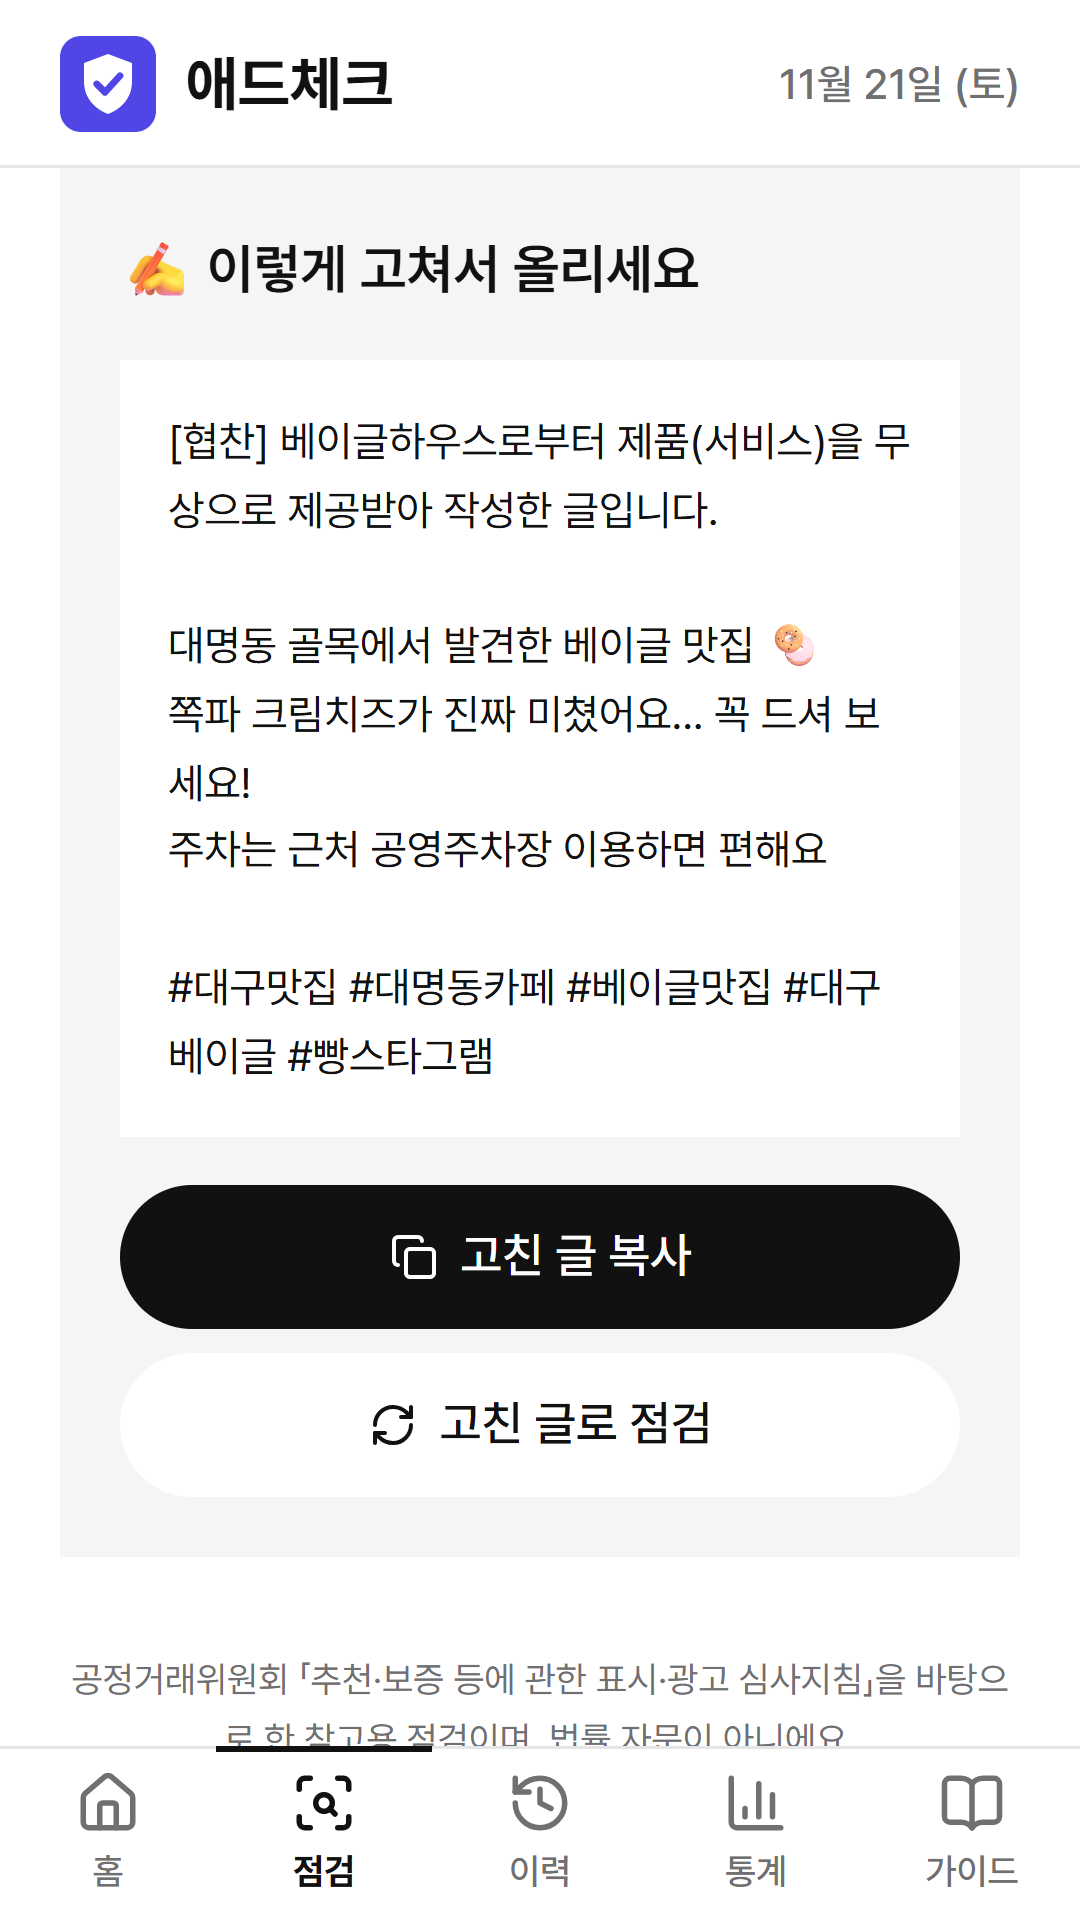
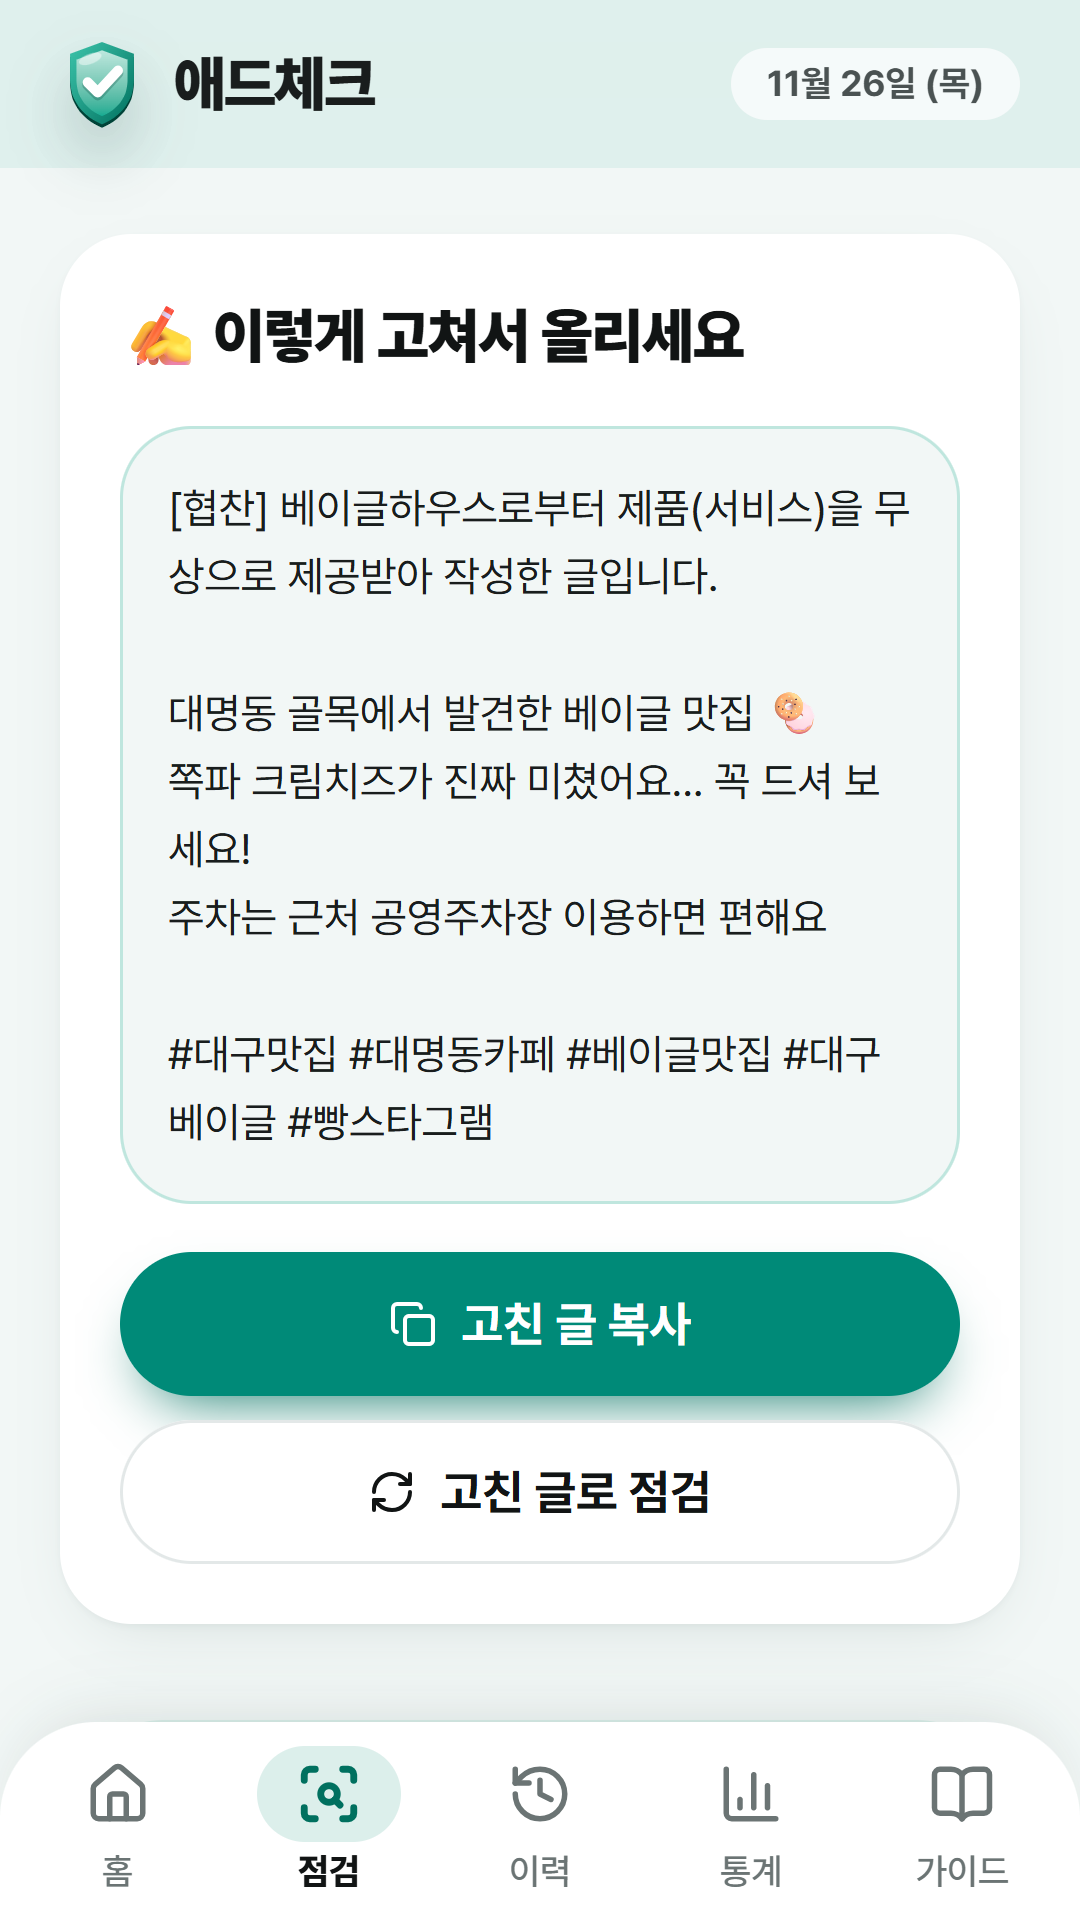
docs: 스토어 스크린샷 8장·그래픽 이미지 v1.6 디자인으로 다시 만들기
- 1080×1920 스크린샷 8장, 1024×500 그래픽 이미지 (투명도 없음)
- 캡처 스크립트 scripts/store-screenshots.mjs, scripts/store-feature-graphic.mjs 추가 (headless Chrome, 새 라이브러리 없음)
- 스토어등록문구.md 스크린샷 설명과 다시 만들기 방법 갱신

diff --git a/docs/store/스토어등록문구.md b/docs/store/스토어등록문구.md
@@ -89,23 +89,23 @@
 |---|---|---|---|
 | 앱 아이콘 | `store-icon-512.png` | 512×512 PNG, 투명 없음 | 512×512, 최대 1MB. 모서리는 플레이가 둥글게 깎으므로 꽉 찬 정사각형 |
 | 그래픽 이미지 | `feature-graphic-1024x500.png` | 1024×500 PNG, 투명 없음 | 1024×500, JPEG 또는 24비트 PNG |
-| 휴대폰 스크린샷 | `screenshots/01~08_*.png` | 1080×1920 (9:16) 8장 (v1.3 화면) | 2~8장, 변의 길이 320~3,840px, 긴 변이 짧은 변의 2배 이하. 1080px 이상이면 추천 영역 노출 조건 충족 |
+| 휴대폰 스크린샷 | `screenshots/01~08_*.png` | 1080×1920 (9:16) 8장 (v1.6 화면) | 2~8장, 변의 길이 320~3,840px, 긴 변이 짧은 변의 2배 이하. 1080px 이상이면 추천 영역 노출 조건 충족 |
 
 스크린샷 순서와 설명(콘솔에는 설명 칸이 없으므로 순서만 이대로 올림):
 
 | 순서 | 파일 | 보여 주는 것 |
 |---|---|---|
-| 1 | `01_홈.png` | 홈(대문): "올리기 전에 30초, 뒷광고 점검", 지금 점검하기, 사용 3단계 |
-| 2 | `02_점검입력.png` | 점검 화면: 예시 글, 플랫폼·받은 대가 고르기 |
+| 1 | `01_홈.png` | 홈(대문): 큰 「애드체크」 제목과 입체 일러스트, "뒷광고 위험 무료 점검", 지금 점검하기, 바로가기 카드 |
+| 2 | `02_점검입력.png` | 점검 화면: 플랫폼·받은 대가 고르기, 업체 이름, 붙여넣은 예시 글 |
 | 3 | `03_점검결과.png` | 예시 글 30점 "위반 위험" — 표시 위치, 해시태그에 묻힘 |
 | 4 | `04_고친글.png` | 고친 글 카드, 복사·다시 점검 버튼 |
-| 5 | `05_재점검.png` | 고친 글 100점 "적합", 원래 글로 돌아가기 |
+| 5 | `05_재점검.png` | 고친 글 100점 "적합", 원래 글로 돌아가기, 참고용 안내 |
 | 6 | `06_이력.png` | 점검 이력 목록 |
 | 7 | `07_통계.png` | 자주 틀리는 항목 차트 |
 | 8 | `08_가이드.png` | 뒷광고 설명과 꼭 지킬 4가지 |
 
-- 스크린샷은 실제 앱 화면을 그대로 찍었다(360×640 화면, 3배율). 이력·통계는 앱의 점검 함수로 만든 예시 기록 7건 + 캡처 중 점검 2건.
-- 날짜 표시(11월 21일)는 캡처한 날이다. 시간이 지나 다시 찍으려면 아래 6장의 방법을 쓴다.
+- 스크린샷은 실제 앱 화면을 그대로 찍었다(360×640 화면, 3배율, 움직임 줄이기 설정으로 일러스트 정지). 이력·통계는 앱의 점검 함수로 만든 예시 기록 7건 + 캡처 중 점검 2건. 4번은 화면 위 가장자리에 반쯤 걸린 안내 한 줄을 가리고, 5번은 결과가 위로 오도록 아래 여백을 임시로 늘려서 찍었다.
+- 날짜 표시(11월 26일)는 캡처한 날이다. 시간이 지나 다시 찍으려면 아래 7장의 방법을 쓴다.
 
 ---
 
@@ -128,6 +128,6 @@
 
 ## 7. 다시 만들기
 
-- 스크린샷: 개발 서버(`npm run dev`, 포트 5175)를 켜고 headless Chrome으로 360×640 화면을 3배율로 캡처했다. 캡처 스크립트는 저장소에 넣지 않았으므로(일회용), 다시 찍을 때는 Claude에게 "스토어 스크린샷 다시 찍어 줘"라고 요청한다.
-- 그래픽 이미지: 같은 방법으로 1024×500 HTML(검정 `#111111` 배경 + 앱 이름·큰 제목 + 결과 화면 2장, v1.3 디자인)을 캡처했다.
+- 스크린샷: 개발 서버(`npm run dev -- --port 5175`)를 켜고 `node scripts/store-screenshots.mjs <임시 폴더>`를 실행한다. headless Chrome(DevTools 프로토콜, 추가 라이브러리 없음)으로 360×640 화면을 3배율로 캡처해 8장을 만든다. 결과를 눈으로 확인한 뒤 `screenshots/`에 복사한다.
+- 그래픽 이미지: 스크린샷을 먼저 찍은 뒤 `node scripts/store-feature-graphic.mjs <프로젝트 폴더> <임시 폴더> <출력 png>`를 실행한다. 민트 그라데이션 바탕 + 앱 이름·알약 라벨·큰 두 색 제목 「뒷광고 30초 점검」 + 홈·재점검(100점) 화면 2장 + 앱 홈의 입체 일러스트(#협찬 딱지·말풍선·방패, v1.6 디자인)로 1024×500을 만든다.
 - 화면 디자인이나 문구가 바뀌면 스크린샷도 다시 찍는다.
